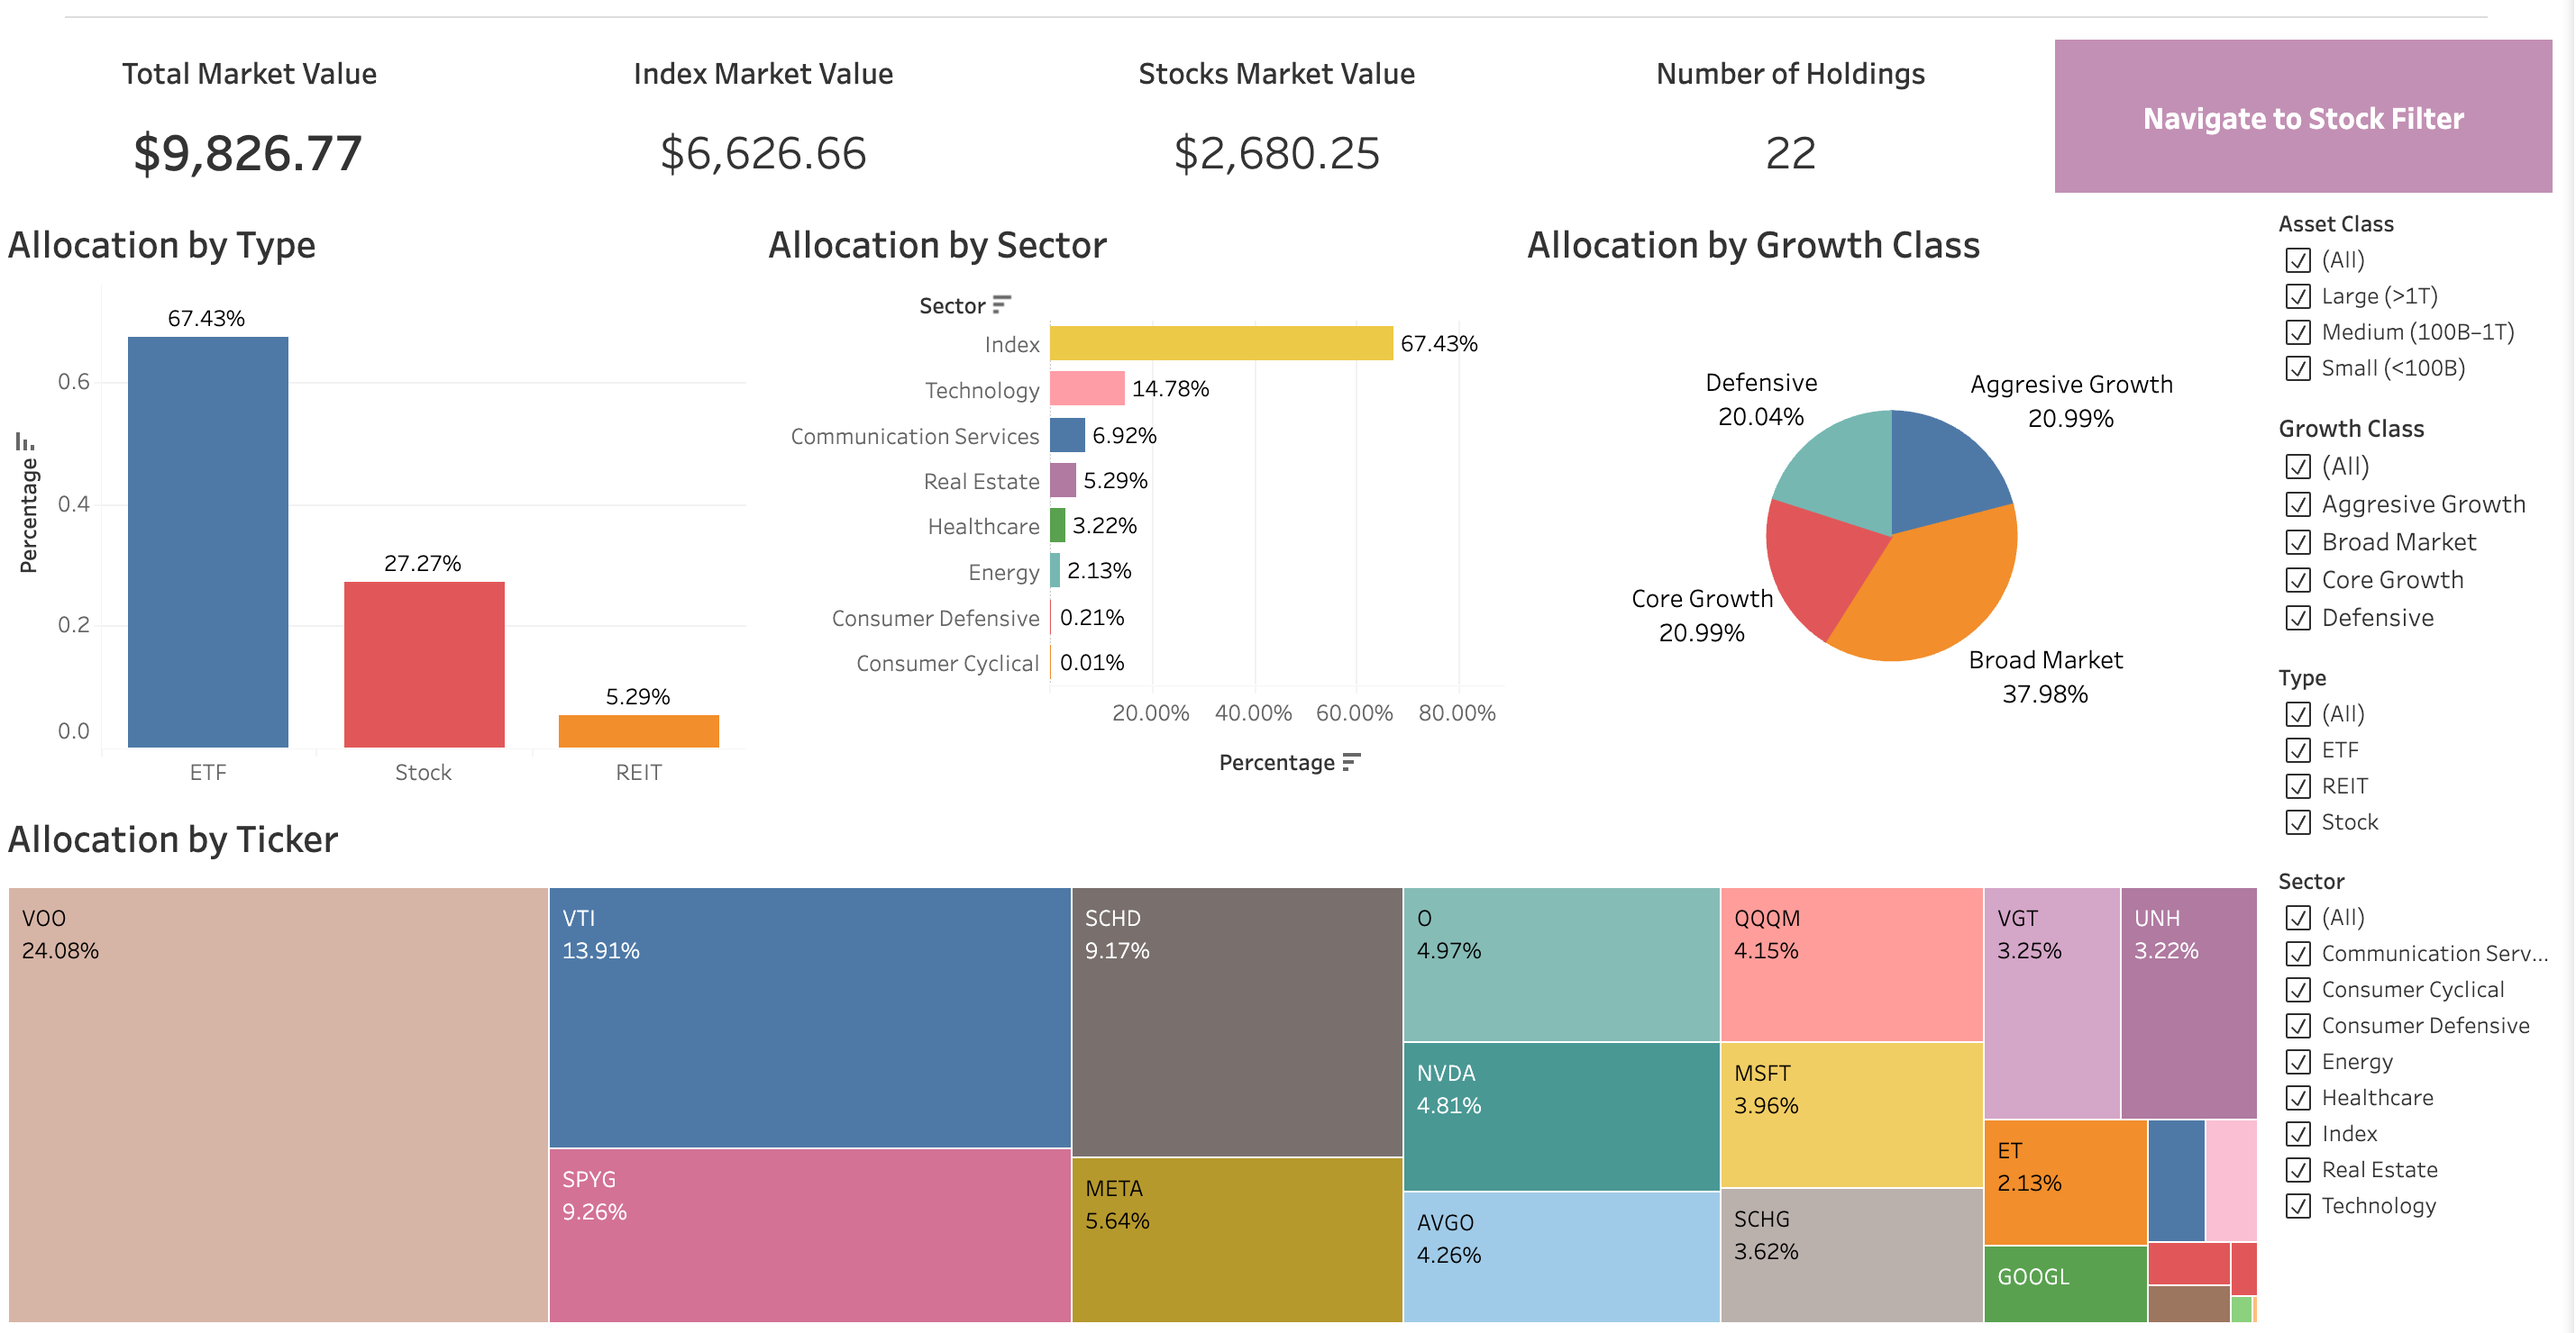
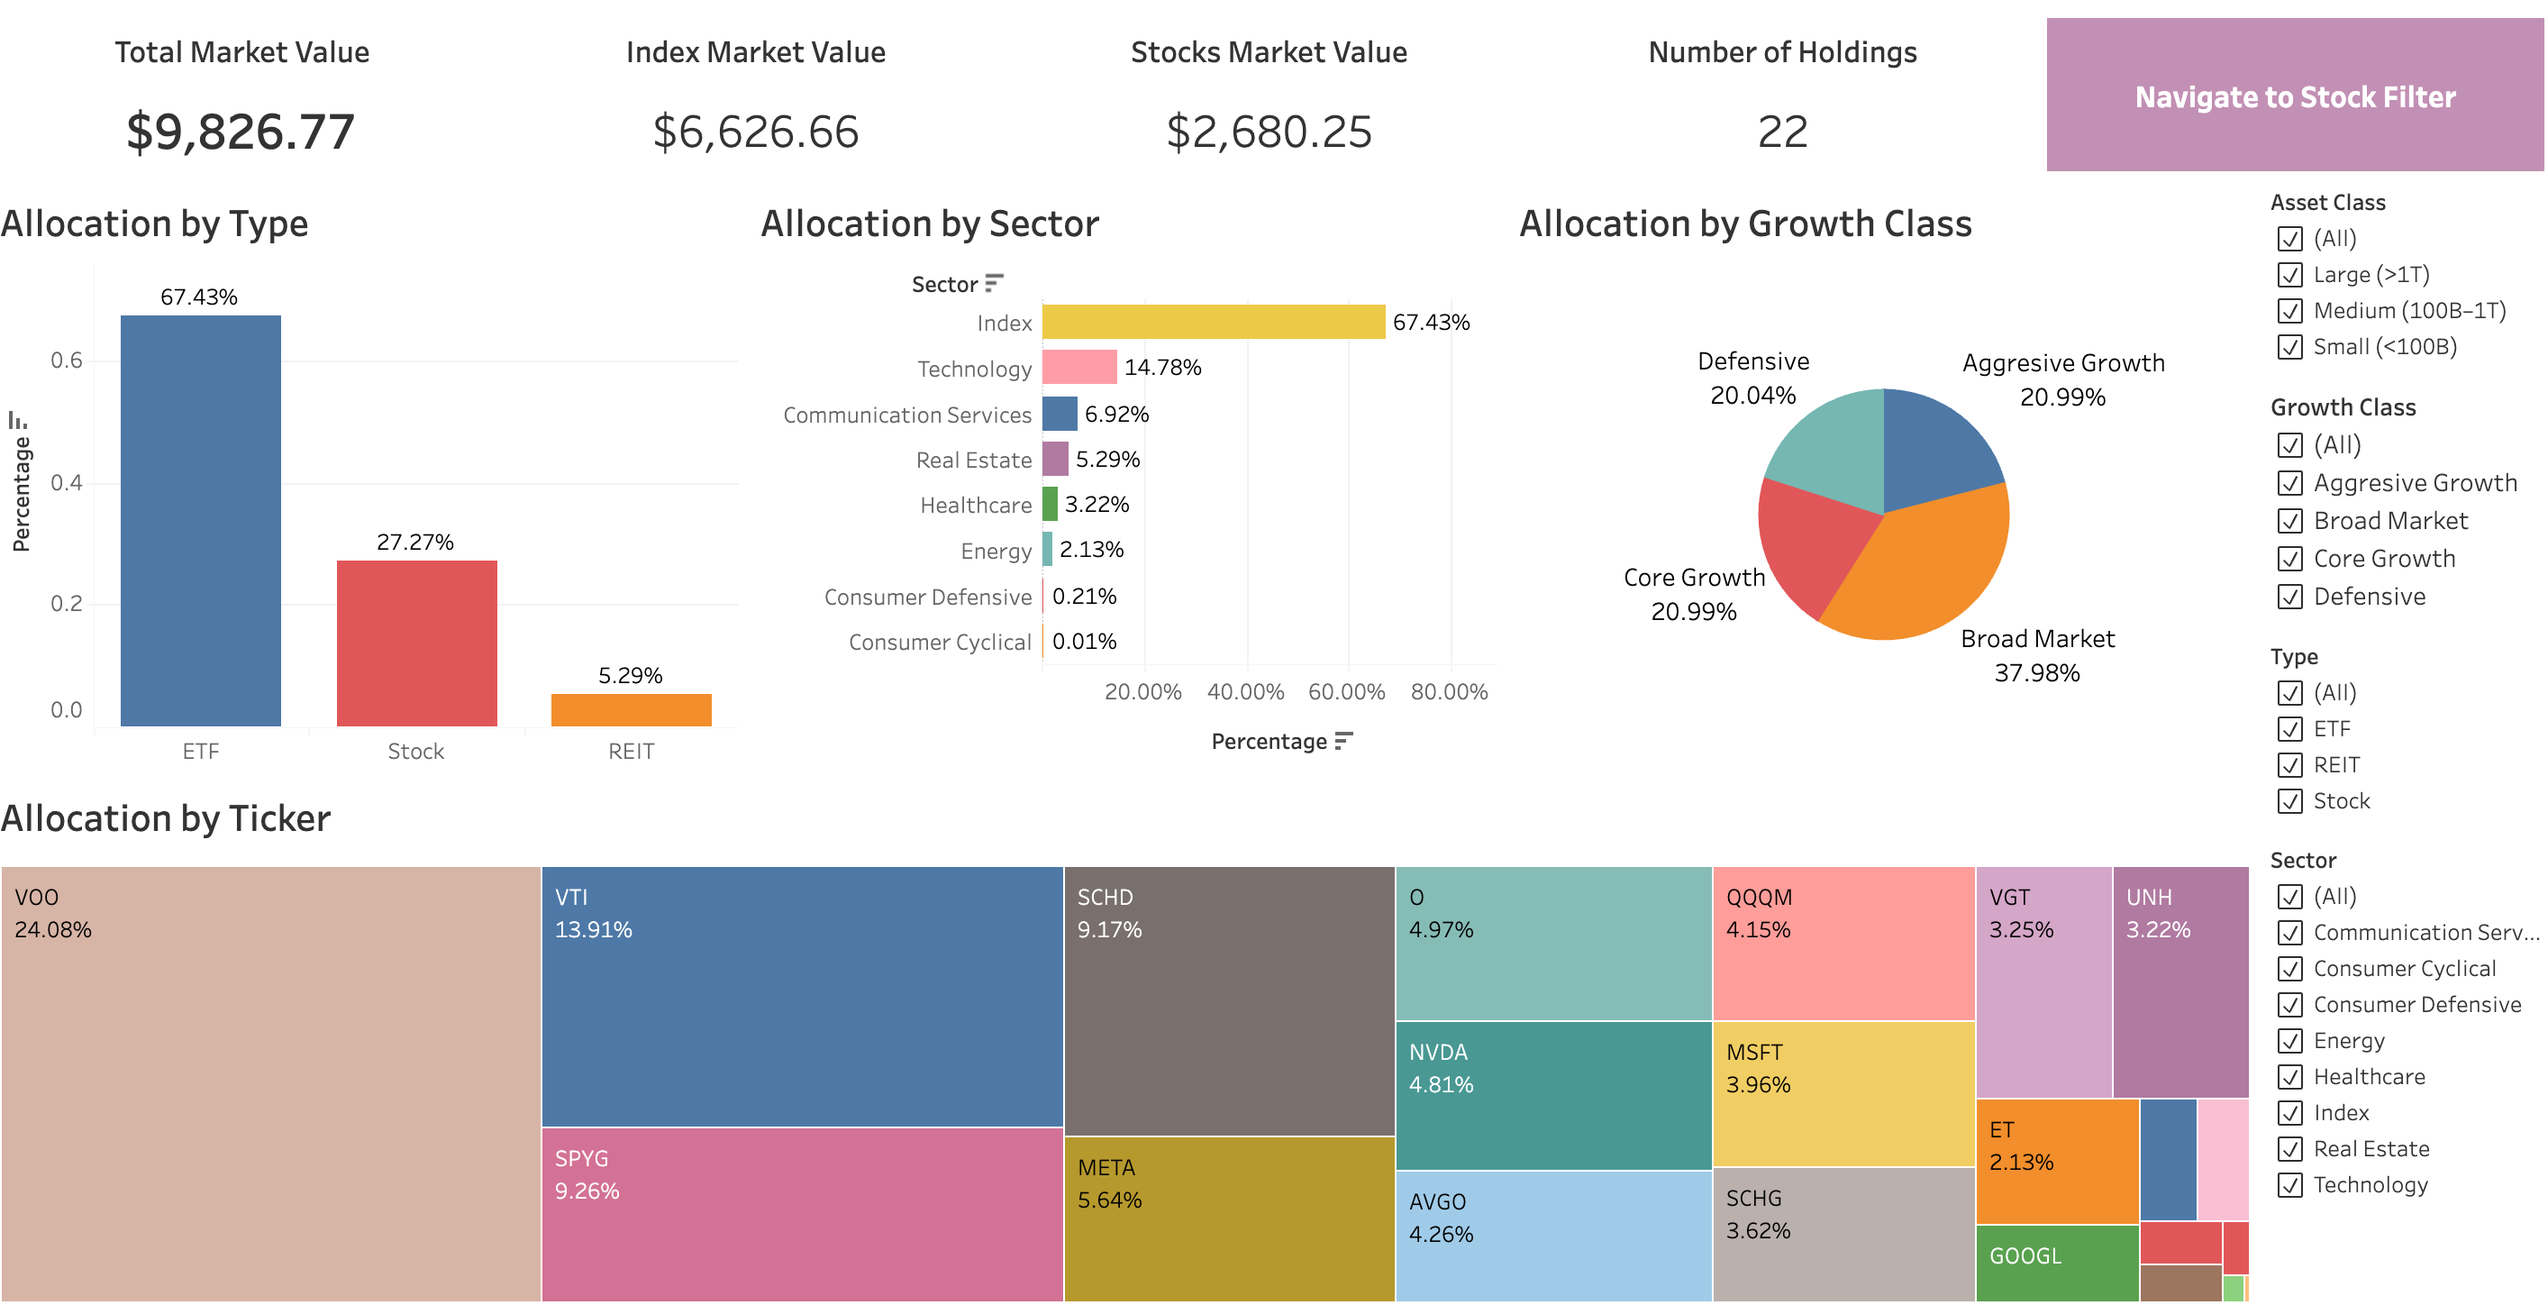
Update readme and crop summary image

diff --git a/README.md b/README.md
@@ -22,7 +22,7 @@ https://public.tableau.com/app/profile/tharindu.abeysinghe/viz/InvestmentPortfol
 
 ## Key Insights & Why They Matter
 
-[![Summary Page](images/summary.png)]
+![Summary Page](images/summary.png)
 
 1. Efficient filtering to narrow the investable universe
 
@@ -32,7 +32,7 @@ Interactive filters allow rapid narrowing of stocks based on type, sector, and k
 
 Because the dashboard does not rely on time-series performance, it emphasizes current fundamentals and valuation alignment. This makes it especially useful for forward-looking allocation decisions rather than retrospective performance tracking.
 
-[![Stock filter](images/stock_filter.png)]
+![Stock filter](images/stock_filter.png)
 
 3. Valuation context, not just valuation numbers
 
